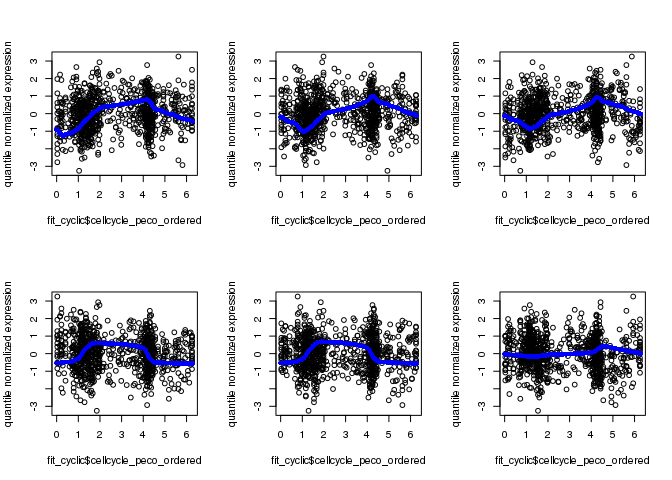
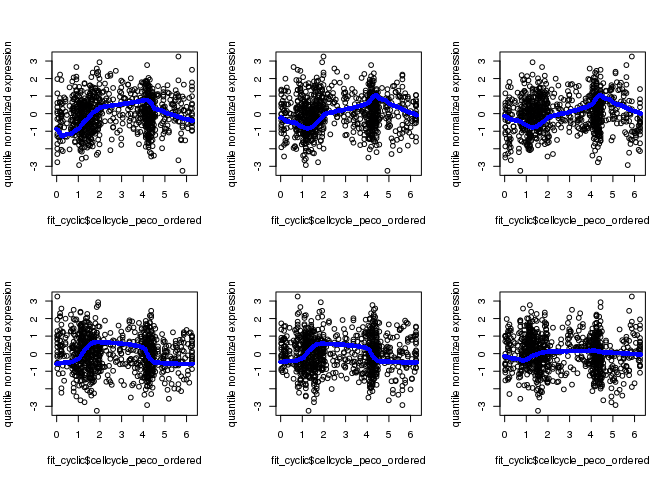
version bump and README.md update

diff --git a/README.md b/README.md
@@ -197,10 +197,12 @@ assays(sce_top101genes)
     ## List of length 3
     ## names(3): counts cpm cpm_quantNormed
 
-Apply the prediction model using function `cycle_npreg_outsample`.
+Apply the prediction model using function `cycle_npreg_outsample` and
+generate prediction results contained in a list object
+`pred_top101genes`.
 
 ``` r
-sce_top101genes <- cycle_npreg_outsample(
+pred_top101genes <- cycle_npreg_outsample(
     Y_test=sce_top101genes,
     sigma_est=training_human$sigma[rownames(sce_top101genes),],
     funs_est=training_human$cellcycle_function[rownames(sce_top101genes)],
@@ -209,15 +211,15 @@ sce_top101genes <- cycle_npreg_outsample(
     get_trend_estimates=FALSE)
 ```
 
-`peco` adds the predict cell cycle phase to the `colData` slot of
-sce\_top101genes.
+The `pred_top101genes$Y` contains a SingleCellExperiment object with the
+predict cell cycle phase in the `colData` slot.
 
 ``` r
-head(colData(sce_top101genes)$cellcycle_peco)
+head(colData(pred_top101genes$Y)$cellcycle_peco)
 ```
 
     ## 20170905-A01 20170905-A02 20170905-A03 20170905-A06 20170905-A07 
-    ##     1.099557     4.555309     2.607522     4.303982     4.052655 
+    ##     1.099557     4.555309     2.481858     4.303982     4.052655 
     ## 20170905-A08 
     ##     1.413717
 
@@ -228,8 +230,8 @@ fitted function `training_human$cellcycle_function[[1]]` was obtained
 from our training data.
 
 ``` r
-plot(y=assay(sce_top101genes,"cpm_quantNormed")["ENSG00000170312",],
-     x=colData(sce_top101genes)$theta_shifted, main = "CDK1",
+plot(y=assay(pred_top101genes$Y,"cpm_quantNormed")["ENSG00000170312",],
+     x=colData(pred_top101genes$Y)$theta_shifted, main = "CDK1",
      ylab = "quantile normalized expression")
 points(y=training_human$cellcycle_function[["ENSG00000170312"]](seq(0,2*pi, length.out=100)),
        x=seq(0,2*pi, length.out=100), col = "blue", pch =16)
@@ -244,11 +246,11 @@ Visualize results of prediction for the top 10 genesone genes. Use
 
 ``` r
 # predicted cell time in the input data
-theta_predict = colData(sce_top101genes)$cellcycle_peco
-names(theta_predict) = rownames(colData(sce_top101genes))
+theta_predict = colData(pred_top101genes$Y)$cellcycle_peco
+names(theta_predict) = rownames(colData(pred_top101genes$Y))
 
 # expression values of 10 genes in the input data
-yy_input = assay(sce_top101genes,"cpm_quantNormed")[1:6,]
+yy_input = assay(pred_top101genes$Y,"cpm_quantNormed")[1:6,]
 
 # apply trendfilter to estimate cyclic gene expression trend
 fit_cyclic <- fit_cyclical_many(Y=yy_input, 
@@ -258,7 +260,7 @@ fit_cyclic <- fit_cyclical_many(Y=yy_input,
     ## computing on 2 cores
 
 ``` r
-gene_symbols = rowData(sce_top101genes)$hgnc[rownames(yy_input)]
+gene_symbols = rowData(pred_top101genes$Y)$hgnc[rownames(yy_input)]
 
 par(mfrow=c(2,3))
 for (i in 1:6) {
@@ -306,7 +308,7 @@ sessionInfo()
     ##  [9] Biobase_2.42.0              GenomicRanges_1.34.0       
     ## [11] GenomeInfoDb_1.18.1         IRanges_2.16.0             
     ## [13] S4Vectors_0.20.1            BiocGenerics_0.28.0        
-    ## [15] peco_0.99.6                
+    ## [15] peco_0.99.10               
     ## 
     ## loaded via a namespace (and not attached):
     ##  [1] Rcpp_1.0.3               mvtnorm_1.0-11          

diff --git a/NEWS.md b/NEWS.md
@@ -1,3 +1,7 @@
+# Version 0.99.12 (2020-03-23)
+## Bug fixes 
+    - Debug vignettes.Rmd
+
 # Version 0.99.11 (2020-03-23)
 ## Major changes
     - Rename fit_trendfilter_generic to fit_trendfilter
